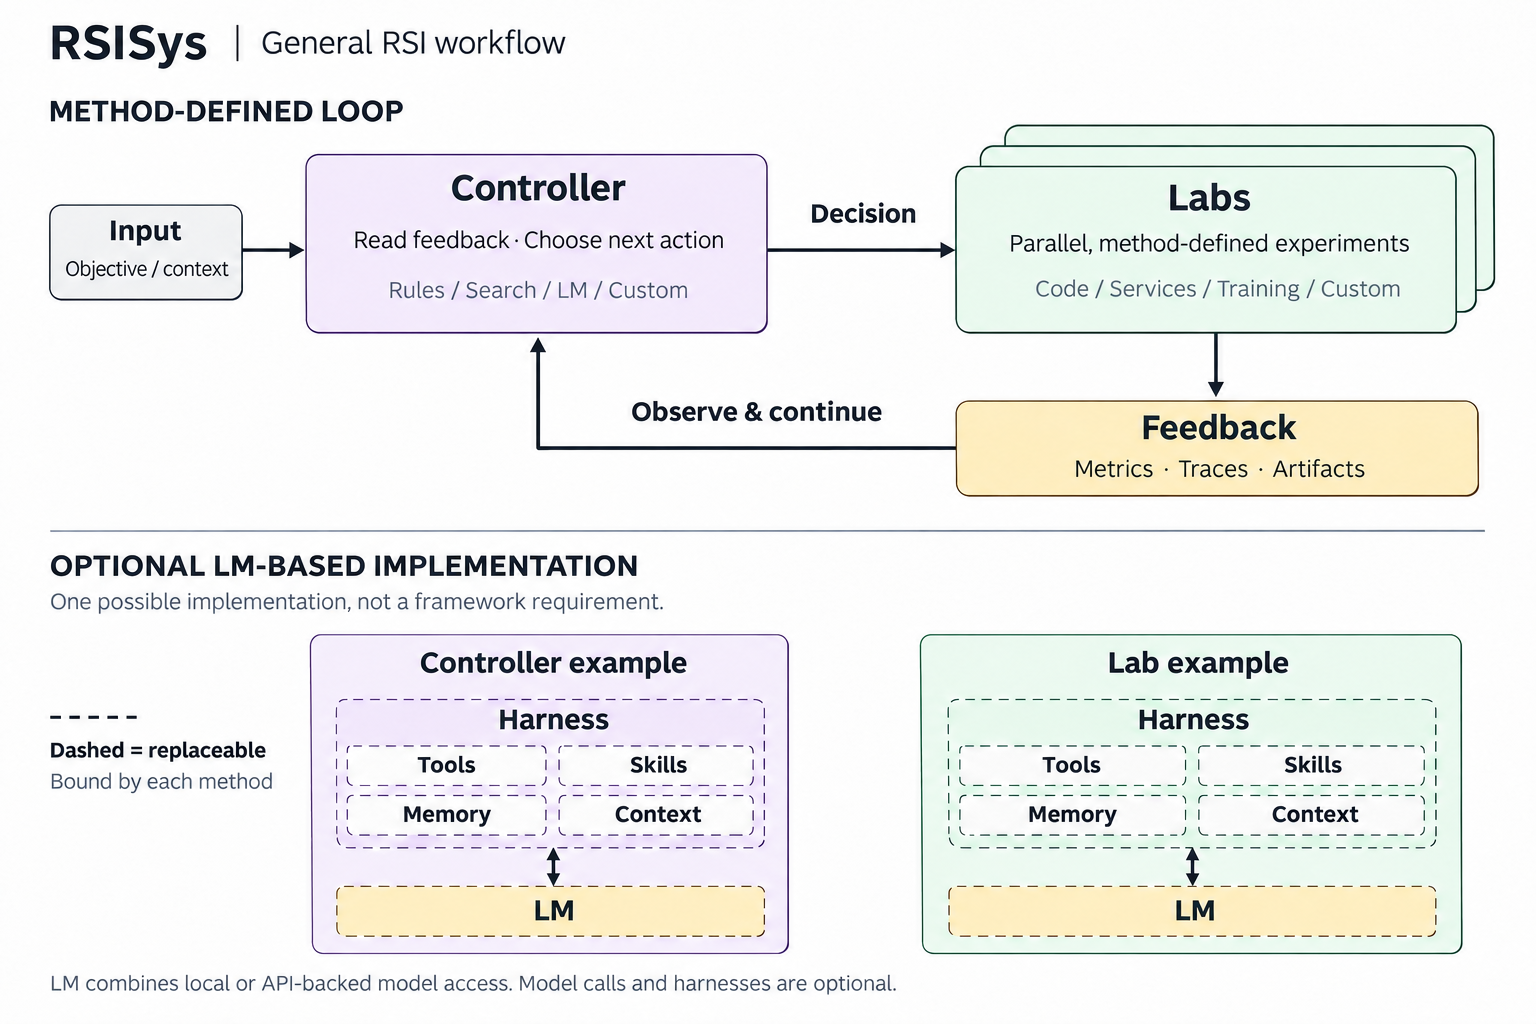
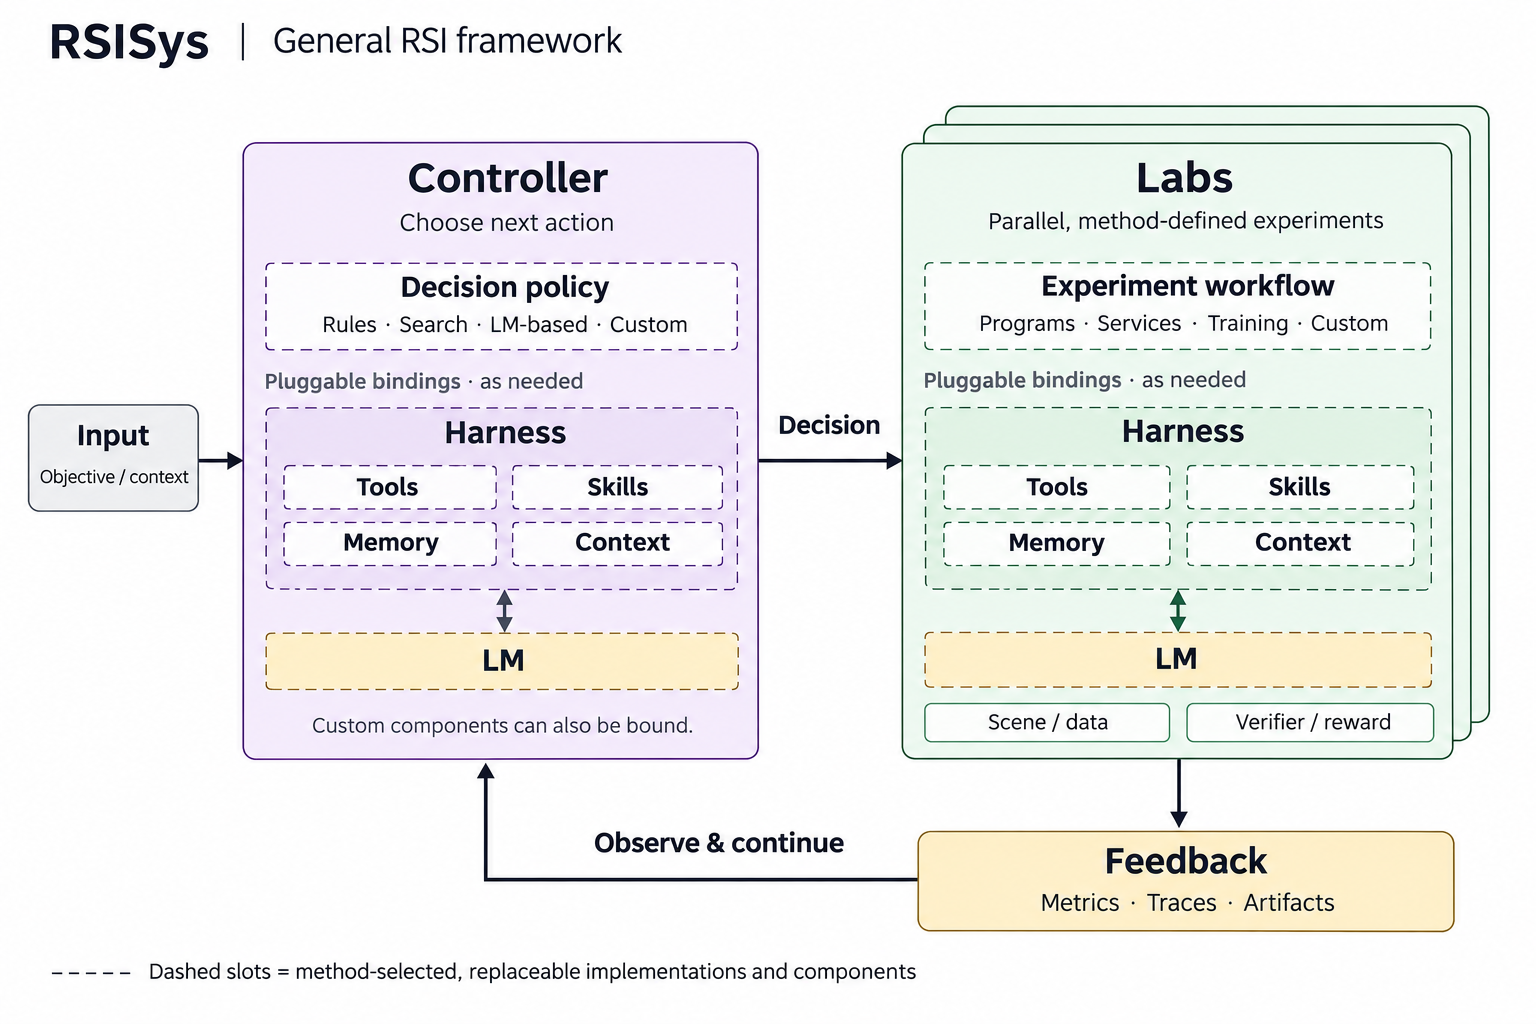
Unify RSI workflow and method-selected implementation slots

Changed region(s): [[0.0312, 0.0938, 1.0, 0.9688], [0.0312, 0.0312, 0.4062, 0.0625]]

diff --git a/README.md b/README.md
@@ -262,13 +262,14 @@ from `rsisys.api`.
 
 ## Workflow and boundaries
 
-![General RSI workflow: input to Controller, decision to parallel-capable Labs, and feedback to Controller. Optional examples contain replaceable harness components and LM bindings.](assets/architecture.png)
+![General RSI framework: input, Controller, parallel-capable Labs and feedback form one loop; policies, workflows, harness components and LM are method-selected replaceable bindings.](assets/architecture.png)
 
-The upper loop is independent of LM or harness implementations. Stacked Labs
-represent parallel-capable experiments; methods define asynchronous execution
-and resource allocation. The lower examples show one optional LM-based design:
-Tools, Skills, Memory and Context belong to its harness, while LM includes local
-or API-backed access. Dashed components are selected and bound by the method.
+Controller and Labs are generic roles: each method supplies its decision policy
+and experiment workflow. Stacked Labs represent parallel-capable experiments;
+methods define asynchronous execution and resource allocation. Dashed slots are
+replaceable implementations or components selected by the method. Harnesses,
+Tools, Skills, Memory, Context and LM are bound as needed; LM includes local or
+API-backed access. Methods need not use every depicted component.
 
 | Owner | Responsibility |
 | --- | --- |

diff --git a/README_zh.md b/README_zh.md
@@ -232,11 +232,12 @@ DSH 可通过 `rsisys.harnesses.decision.dsh.dsh_decision_factory` 和 `rsisys[d
 
 ## 运行流程与职责
 
-![通用 RSI 流程：输入进入 Controller，决策交给可并行的 Labs，反馈返回 Controller；下方展示含可替换 harness 组件与 LM 的可选实现。](assets/architecture.png)
+![通用 RSI 框架：输入、Controller、可并行 Labs 与反馈构成一个闭环；策略、实验流程、harness 组件与 LM 均由方法选择并绑定。](assets/architecture.png)
 
-上层闭环不要求使用 LM 或 harness。Labs 叠框表示可并行的实验分支，具体异步执行与
-资源分配由方法定义。下层仅展示一种可选 LM 实现：Tools、Skills、Memory、Context
-属于 harness，LM 合并表示本地或 API 模型访问；虚线组件由方法选择并绑定。
+Controller 与 Labs 是通用角色，具体决策策略和实验流程由方法提供。Labs 叠框表示可并行的
+实验分支，异步执行与资源分配由方法定义。虚线表示由方法选择、可替换的实现或组件；
+harness、Tools、Skills、Memory、Context 与 LM 均按需绑定，LM 合并表示本地或 API
+模型访问。方法不必使用图中的所有组件。
 
 | 归属 | 职责 |
 | --- | --- |
